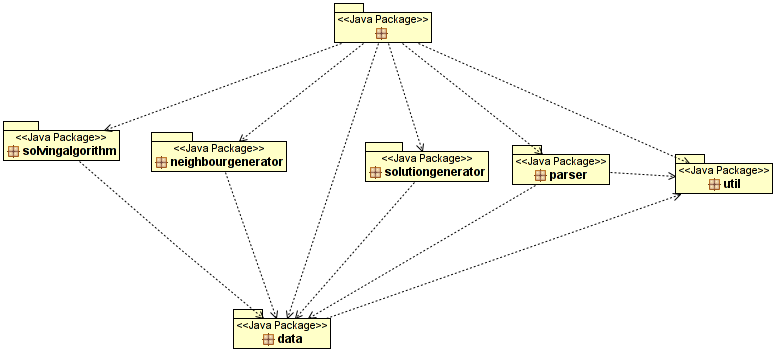
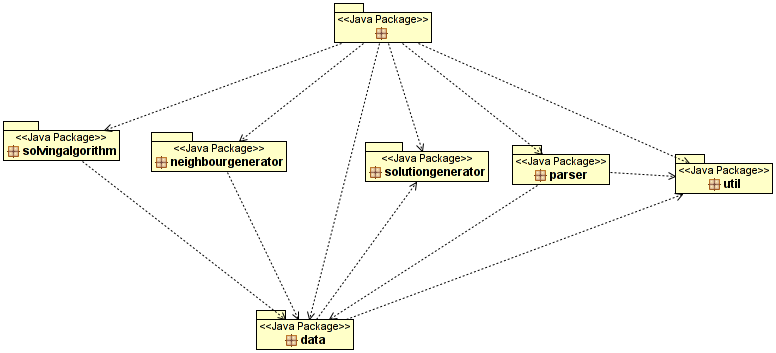
spostate tutte le classi di test nei relativi package + aggiornamento a qualche diagramma.

diff --git a/rob/src/neighbourgenerator/bansupplier/BanFullNeighbourGeneratorTest.java b/rob/src/neighbourgenerator/bansupplier/BanFullNeighbourGeneratorTest.java
@@ -1,19 +1,19 @@
-package testingjunit;
+package neighbourgenerator.bansupplier;
 
 import static org.junit.Assert.*;
 
-import neighbourgenerator.bansupplier.DirectionedBanNeighbourGenerator;
 
 import org.junit.Test;
 
 import parser.ProblemParser;
 
-import solutiongenerator.RandomSolutionGenerator;
 import data.Problem;
 import data.Solution;
 
-public class DirectionedBanNeighbourGeneratorTest {
-	
+import solutiongenerator.RandomSolutionGenerator;
+import testingjunit.Constants;
+
+public class BanFullNeighbourGeneratorTest {
 	final String CLASS_NAME = this.getClass().getName();
 	
 	//test di generate()
@@ -21,11 +21,11 @@ public class DirectionedBanNeighbourGeneratorTest {
 	 * Caso generale.
 	 */
 	@Test
-	public final void testGenerateSolutionInt() throws Exception {
+	public final void testGenerate1() throws Exception {
 		final String methodName = new Exception().getStackTrace()[0].getMethodName(); 
 		ProblemParser pp = new ProblemParser(Constants.TESTING_INPUT_PATH);
 		
-		final String PROBLEM_NAME = "Cap.10.100.3.1.70.1.ctqd";
+		final String PROBLEM_NAME = "Cap.10.100.3.1.10.1.ctqd";
 		Problem problem = null;
 	    problem = pp.parse(PROBLEM_NAME);
 		
@@ -35,7 +35,7 @@ public class DirectionedBanNeighbourGeneratorTest {
 		//sol0 0 sol iniziale casuale
 		Solution sol0 = randomGenerator.generate();
 		
-		DirectionedBanNeighbourGenerator dirBanGenerator = new DirectionedBanNeighbourGenerator(problem); 
+		BanFullNeighbourGenerator banGenerator = new BanFullNeighbourGenerator(problem); 
 		
 		//esegue il test N volte perché il metodo non è deterministico
 		final int N = 10;
@@ -43,7 +43,7 @@ public class DirectionedBanNeighbourGeneratorTest {
 			//provo tutte le possibili distanze
 			final int MAX_DISTANCE = numSuppliers/2;
 			for(int distance = 1; distance<=MAX_DISTANCE; distance++){
-				Solution sol1 = dirBanGenerator.generate(sol0, distance);
+				Solution sol1 = banGenerator.generate(sol0, distance);
 				//controllo ammissibilità della soluzione generata dal metodo
 				boolean ok = sol1.isAdmissible();
 				//verifico che il generatore abbia davvero prodotto
@@ -64,5 +64,4 @@ public class DirectionedBanNeighbourGeneratorTest {
 			}
 		}
 	}
-
 }

diff --git a/rob/src/neighbourgenerator/bansupplier/DirectionedBanNeighbourGeneratorTest.java b/rob/src/neighbourgenerator/bansupplier/DirectionedBanNeighbourGeneratorTest.java
@@ -1,19 +1,19 @@
-package testingjunit;
+package neighbourgenerator.bansupplier;
 
 import static org.junit.Assert.*;
 
-import neighbourgenerator.bansupplier.BanFullNeighbourGenerator;
 
 import org.junit.Test;
 
 import parser.ProblemParser;
 
+import solutiongenerator.RandomSolutionGenerator;
+import testingjunit.Constants;
 import data.Problem;
 import data.Solution;
 
-import solutiongenerator.RandomSolutionGenerator;
-
-public class BanFullNeighbourGeneratorTest {
+public class DirectionedBanNeighbourGeneratorTest {
+	
 	final String CLASS_NAME = this.getClass().getName();
 	
 	//test di generate()
@@ -21,11 +21,11 @@ public class BanFullNeighbourGeneratorTest {
 	 * Caso generale.
 	 */
 	@Test
-	public final void testGenerate1() throws Exception {
+	public final void testGenerateSolutionInt() throws Exception {
 		final String methodName = new Exception().getStackTrace()[0].getMethodName(); 
 		ProblemParser pp = new ProblemParser(Constants.TESTING_INPUT_PATH);
 		
-		final String PROBLEM_NAME = "Cap.10.100.3.1.10.1.ctqd";
+		final String PROBLEM_NAME = "Cap.10.100.3.1.70.1.ctqd";
 		Problem problem = null;
 	    problem = pp.parse(PROBLEM_NAME);
 		
@@ -35,7 +35,7 @@ public class BanFullNeighbourGeneratorTest {
 		//sol0 0 sol iniziale casuale
 		Solution sol0 = randomGenerator.generate();
 		
-		BanFullNeighbourGenerator banGenerator = new BanFullNeighbourGenerator(problem); 
+		DirectionedBanNeighbourGenerator dirBanGenerator = new DirectionedBanNeighbourGenerator(problem); 
 		
 		//esegue il test N volte perché il metodo non è deterministico
 		final int N = 10;
@@ -43,7 +43,7 @@ public class BanFullNeighbourGeneratorTest {
 			//provo tutte le possibili distanze
 			final int MAX_DISTANCE = numSuppliers/2;
 			for(int distance = 1; distance<=MAX_DISTANCE; distance++){
-				Solution sol1 = banGenerator.generate(sol0, distance);
+				Solution sol1 = dirBanGenerator.generate(sol0, distance);
 				//controllo ammissibilità della soluzione generata dal metodo
 				boolean ok = sol1.isAdmissible();
 				//verifico che il generatore abbia davvero prodotto
@@ -64,4 +64,5 @@ public class BanFullNeighbourGeneratorTest {
 			}
 		}
 	}
+
 }

diff --git a/rob/src/solvingalgorithm/temporizedalgorithm/localsearch/BestImprovementStrategyTest.java b/rob/src/solvingalgorithm/temporizedalgorithm/localsearch/BestImprovementStrategyTest.java
@@ -1,20 +1,20 @@
-package testingjunit;
+package solvingalgorithm.temporizedalgorithm.localsearch;
 
 import static org.junit.Assert.*;
 import neighbourgenerator.BasicNeighbourGenerator;
 import org.junit.Test;
 
 import parser.ProblemParser;
-import solutiongenerator.RandomSolutionGenerator;
-import solvingalgorithm.temporizedalgorithm.localsearch.FirstImprovementStrategy;
 import data.Problem;
 import data.Solution;
+import solutiongenerator.RandomSolutionGenerator;
+import testingjunit.Constants;
 
-public class FirstImprovementStrategyTest {
-
+public class BestImprovementStrategyTest {
+	
 	//test di explore()
 	/*
-	 * caso generale
+	 * caso generico
 	 */
 	@Test
 	public void testExplore() throws Exception {
@@ -25,13 +25,13 @@ public class FirstImprovementStrategyTest {
 		RandomSolutionGenerator generator = new RandomSolutionGenerator(problem);
 		Solution sol0 = generator.generate();
 				
-		FirstImprovementStrategy strategy = new FirstImprovementStrategy();
+		BestImprovementStrategy strategy = new BestImprovementStrategy();
 		final int MAX_NEIGHBOUR_NUMBER = 10;
 		final BasicNeighbourGenerator neighbourGenerator = new BasicNeighbourGenerator(problem);
 		Solution sol1 = strategy.explore(sol0, MAX_NEIGHBOUR_NUMBER, neighbourGenerator);
 		
 		//controllo ammissibilità soluzione generata e che la funzione obiettivo non sia peggiorata
 		assertTrue(sol1.isAdmissible());
-		assertTrue(sol1.getObjectiveFunction() <= sol0.getObjectiveFunction());
+		assertTrue(sol1.getObjectiveFunction() <= sol0.getObjectiveFunction());	
 	}
 }

diff --git a/rob/src/solvingalgorithm/temporizedalgorithm/localsearch/FirstImprovementStrategyTest.java b/rob/src/solvingalgorithm/temporizedalgorithm/localsearch/FirstImprovementStrategyTest.java
@@ -1,20 +1,20 @@
-package testingjunit;
+package solvingalgorithm.temporizedalgorithm.localsearch;
 
 import static org.junit.Assert.*;
 import neighbourgenerator.BasicNeighbourGenerator;
 import org.junit.Test;
 
 import parser.ProblemParser;
+import solutiongenerator.RandomSolutionGenerator;
+import testingjunit.Constants;
 import data.Problem;
 import data.Solution;
-import solutiongenerator.RandomSolutionGenerator;
-import solvingalgorithm.temporizedalgorithm.localsearch.BestImprovementStrategy;
 
-public class BestImprovementStrategyTest {
-	
+public class FirstImprovementStrategyTest {
+
 	//test di explore()
 	/*
-	 * caso generico
+	 * caso generale
 	 */
 	@Test
 	public void testExplore() throws Exception {
@@ -25,13 +25,13 @@ public class BestImprovementStrategyTest {
 		RandomSolutionGenerator generator = new RandomSolutionGenerator(problem);
 		Solution sol0 = generator.generate();
 				
-		BestImprovementStrategy strategy = new BestImprovementStrategy();
+		FirstImprovementStrategy strategy = new FirstImprovementStrategy();
 		final int MAX_NEIGHBOUR_NUMBER = 10;
 		final BasicNeighbourGenerator neighbourGenerator = new BasicNeighbourGenerator(problem);
 		Solution sol1 = strategy.explore(sol0, MAX_NEIGHBOUR_NUMBER, neighbourGenerator);
 		
 		//controllo ammissibilità soluzione generata e che la funzione obiettivo non sia peggiorata
 		assertTrue(sol1.isAdmissible());
-		assertTrue(sol1.getObjectiveFunction() <= sol0.getObjectiveFunction());	
+		assertTrue(sol1.getObjectiveFunction() <= sol0.getObjectiveFunction());
 	}
 }

diff --git a/rob/src/neighbourgenerator/bansupplier/BanSupplierNeighbourGeneratorTest.java b/rob/src/neighbourgenerator/bansupplier/BanSupplierNeighbourGeneratorTest.java
@@ -1,8 +1,7 @@
-package testingjunit;
+package neighbourgenerator.bansupplier;
 
 import static org.junit.Assert.*;
 
-import neighbourgenerator.bansupplier.BanSupplierNeighbourGenerator;
 import neighbourgenerator.bansupplier.emptyingstrategy.RandomEmptyingStrategy;
 import neighbourgenerator.bansupplier.emptyingstrategy.SupplierEmptyingStrategy;
 import neighbourgenerator.bansupplier.selectionstrategy.RandomSelectionStrategy;
@@ -17,6 +16,7 @@ import data.Problem;
 import data.Solution;
 
 import solutiongenerator.RandomSolutionGenerator;
+import testingjunit.Constants;
 
 public class BanSupplierNeighbourGeneratorTest {
 	final String CLASS_NAME = this.getClass().getName();

diff --git a/rob/src/solvingalgorithm/temporizedalgorithm/VNSTest.java b/rob/src/solvingalgorithm/temporizedalgorithm/VNSTest.java
@@ -1,4 +1,4 @@
-package testingjunit;
+package solvingalgorithm.temporizedalgorithm;
 
 import static org.junit.Assert.*;
 import neighbourgenerator.BasicNeighbourGenerator;
@@ -9,9 +9,9 @@ import parser.ProblemParser;
 import data.Problem;
 import data.Solution;
 import solutiongenerator.RandomSolutionGenerator;
-import solvingalgorithm.temporizedalgorithm.VNS;
 import solvingalgorithm.temporizedalgorithm.localsearch.LocalSearch;
 import solvingalgorithm.temporizedalgorithm.localsearch.LocalSearch.StrategyName;
+import testingjunit.Constants;
 
 public class VNSTest {
 	ProblemParser pp = new ProblemParser(Constants.TESTING_INPUT_PATH);

diff --git a/rob/src/solvingalgorithm/temporizedalgorithm/localsearch/LocalSearchTest.java b/rob/src/solvingalgorithm/temporizedalgorithm/localsearch/LocalSearchTest.java
@@ -1,4 +1,4 @@
-package testingjunit;
+package solvingalgorithm.temporizedalgorithm.localsearch;
 
 import static org.junit.Assert.*;
 import neighbourgenerator.BasicNeighbourGenerator;
@@ -8,8 +8,8 @@ import parser.ProblemParser;
 import data.Problem;
 import data.Solution;
 import solutiongenerator.RandomSolutionGenerator;
-import solvingalgorithm.temporizedalgorithm.localsearch.LocalSearch;
 import solvingalgorithm.temporizedalgorithm.localsearch.LocalSearch.StrategyName;
+import testingjunit.Constants;
 
 public class LocalSearchTest {
 	final String CLASS_NAME = this.getClass().getName();

diff --git a/rob/src/data/SolutionTest.java b/rob/src/data/SolutionTest.java
@@ -1,14 +1,13 @@
-package testingjunit;
+package data;
 
 import static org.junit.Assert.*;
 import org.junit.Test;
 
 import parser.ProblemParser;
 import parser.SolutionParser;
-import data.Problem;
-import data.Solution;
 import solutiongenerator.RandomSolutionGenerator;
 import solutiongenerator.SolutionGenerator;
+import testingjunit.Constants;
 
 public class SolutionTest {
 	ProblemParser pp=new ProblemParser(Constants.TESTING_INPUT_PATH);

diff --git a/rob/src/neighbourgenerator/EmptyCellsNeighbourGeneratorTest.java b/rob/src/neighbourgenerator/EmptyCellsNeighbourGeneratorTest.java
@@ -1,8 +1,7 @@
-package testingjunit;
+package neighbourgenerator;
 
 import static org.junit.Assert.*;
 
-import neighbourgenerator.EmptyCellsNeighbourGenerator;
 
 import org.junit.Test;
 
@@ -13,6 +12,7 @@ import data.Solution;
 import data.Supplier;
 
 import solutiongenerator.RandomSolutionGenerator;
+import testingjunit.Constants;
 
 public class EmptyCellsNeighbourGeneratorTest {
 	final String CLASS_NAME = this.getClass().getName();

diff --git a/rob/src/neighbourgenerator/BasicNeighbourGeneratorTest.java b/rob/src/neighbourgenerator/BasicNeighbourGeneratorTest.java
@@ -1,8 +1,7 @@
-package testingjunit;
+package neighbourgenerator;
 
 import static org.junit.Assert.*;
 
-import neighbourgenerator.BasicNeighbourGenerator;
 
 import org.junit.Test;
 
@@ -12,6 +11,7 @@ import data.Problem;
 import data.Solution;
 
 import solutiongenerator.RandomSolutionGenerator;
+import testingjunit.Constants;
 
 public class BasicNeighbourGeneratorTest {
 	final String CLASS_NAME = this.getClass().getName();

diff --git a/rob/src/data/SupplierTest.java b/rob/src/data/SupplierTest.java
@@ -1,13 +1,11 @@
-package testingjunit;
+package data;
 
 import static org.junit.Assert.*;
 import org.junit.Test;
 
 import parser.ProblemParser;
-import data.Problem;
-import data.Solution;
-import data.Supplier;
 import solutiongenerator.RandomSolutionGenerator;
+import testingjunit.Constants;
 
 public class SupplierTest {
 	ProblemParser pp = new ProblemParser(Constants.TESTING_INPUT_PATH);

diff --git a/rob/src/data/comparator/BoughtQuantityComparatorTest.java b/rob/src/data/comparator/BoughtQuantityComparatorTest.java
@@ -1,14 +1,14 @@
-package testingjunit;
+package data.comparator;
 
 import static org.junit.Assert.*;
 import org.junit.Before;
 import org.junit.Test;
 
 import parser.ProblemParser;
+import testingjunit.Constants;
 import data.Problem;
 import data.Solution;
 import data.Supplier;
-import data.comparator.BoughtQuantityComparator;
 
 
 public class BoughtQuantityComparatorTest {
